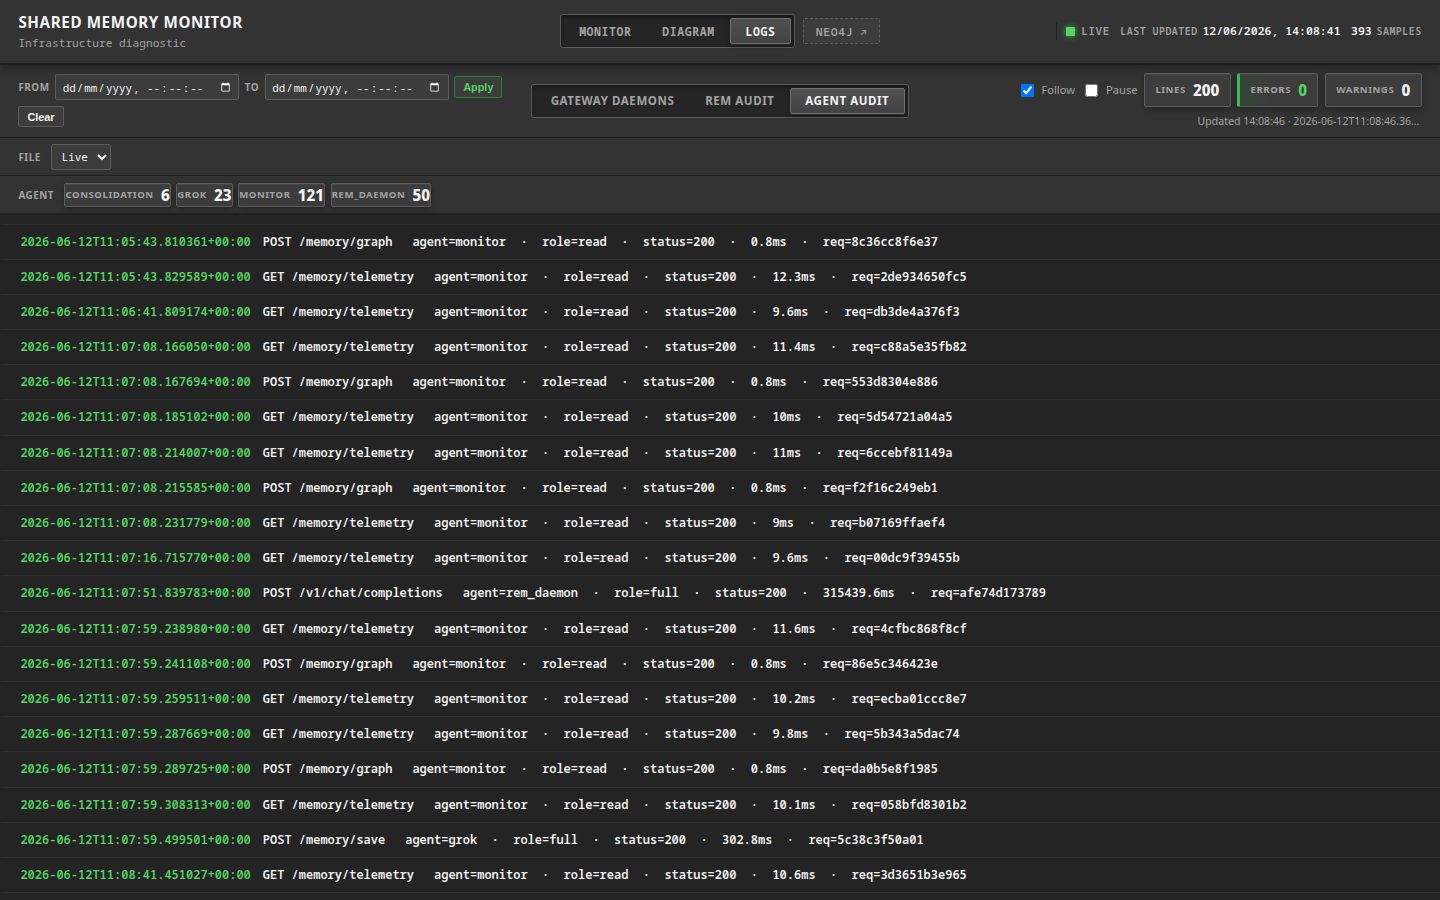
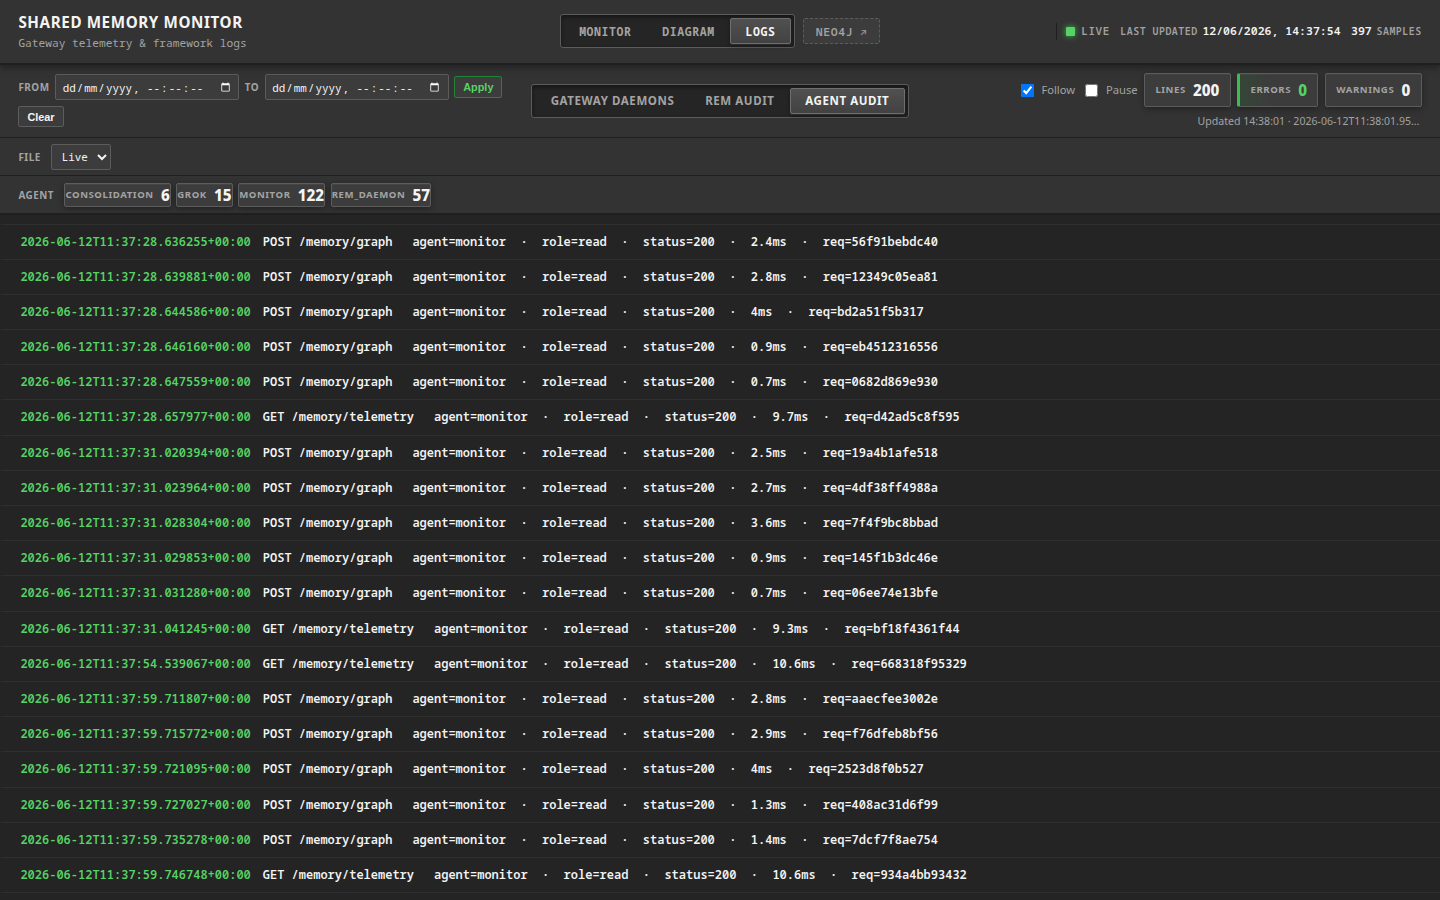
docs: add schema breakdown screenshot to README (v0.4.2)
Capture opens the schema drawer after breakdown loads; README Screenshots
section documents Neo4j graph + telemetry.breakdown panels.

diff --git a/static/dashboard.html b/static/dashboard.html
@@ -4,7 +4,7 @@
 <meta charset="utf-8">
 <title>Shared Memory Monitor</title>
 <script src="https://cdn.jsdelivr.net/npm/chart.js@4.4.1/dist/chart.umd.min.js"></script>
-<link rel="stylesheet" href="/static/theme.css?v=13">
+<link rel="stylesheet" href="/static/theme.css?v=30">
 </head>
 <body data-bar-meta="dashboard">
 
@@ -487,6 +487,7 @@ async function loadBreakdown({ force = true, waitPaint = false } = {}) {
     if (loading) loading.hidden = true;
     if (content) content.hidden = false;
     resizeBreakdownCharts();
+    markSchemaCaptureReady();
   } catch (err) {
     if (err.name === "AbortError") return;
     if (gen !== schemaDrawerGen) return;
@@ -498,6 +499,7 @@ async function loadBreakdown({ force = true, waitPaint = false } = {}) {
       const msg = err.message || "Could not reach /api/breakdown";
       box.innerHTML = `<div class="schema-error"><strong>Monitor</strong><span>${esc(msg)}</span></div>`;
     }
+    markSchemaCaptureReady();
   } finally {
     if (refreshBtn) refreshBtn.disabled = false;
   }
@@ -666,6 +668,14 @@ async function loadSummary() {
   } catch (_) {}
 }
 
+function markSchemaCaptureReady() {
+  const params = new URLSearchParams(location.search);
+  if (!params.has("capture") || !params.has("schema")) return;
+  requestAnimationFrame(() => requestAnimationFrame(() => {
+    document.body.dataset.schemaReady = "1";
+  }));
+}
+
 fetch("/api/meta").then(r=>r.json()).then(m=>{
   if (m.neo4j_browser_url) document.getElementById("neo4j-link").href = m.neo4j_browser_url;
 }).catch(()=>{});
@@ -675,6 +685,19 @@ refresh();
 setInterval(loadSummary, 30000);
 setInterval(loadSystemHealth, 30000);
 setInterval(refresh, 60000);
+
+(async function bootSchemaCapture() {
+  const params = new URLSearchParams(location.search);
+  if (!params.has("capture") || !params.has("schema")) return;
+  document.body.dataset.schemaCapture = "1";
+  try {
+    await refresh();
+    await loadSystemHealth();
+    openSchemaDrawer();
+  } catch (_) {
+    markSchemaCaptureReady();
+  }
+})();
 </script>
 </body>
 </html>

diff --git a/static/theme.css b/static/theme.css
@@ -610,6 +610,24 @@ body.schema-open { overflow: hidden; }
   overflow-y: auto;
   padding: 1rem 1.15rem 1.5rem;
 }
+/* README capture — expand drawer so full-page screenshot includes all panels */
+body[data-schema-capture="1"] {
+  overflow: visible !important;
+}
+body[data-schema-capture="1"] .schema-backdrop.open {
+  position: absolute;
+  inset: 0;
+  min-height: 100%;
+}
+body[data-schema-capture="1"] .schema-drawer.open {
+  position: relative;
+  transform: none;
+  height: auto;
+  min-height: 100vh;
+}
+body[data-schema-capture="1"] .schema-drawer-body {
+  overflow: visible;
+}
 .schema-loading {
   color: var(--muted);
   font-size: .85rem;

diff --git a/scripts/capture_screenshots.py b/scripts/capture_screenshots.py
@@ -16,6 +16,7 @@ BASE = os.environ.get("SM_SCREENSHOT_URL", "http://127.0.0.1:8765").rstrip("/")
 
 PAGES: list[tuple[str, str, dict[str, int]]] = [
     ("dashboard.png", "/", {"width": 1440, "height": 900}),
+    ("schema-breakdown.png", "/?schema=1&capture=1", {"width": 1440, "height": 900}),
     ("diagram.png", "/diagram?capture=1", {"width": 1280, "height": 900}),
     ("logs.png", "/logs?source=agent_audit&capture=1", {"width": 1440, "height": 900}),
 ]
@@ -48,6 +49,11 @@ def main() -> None:
                 page.wait_for_selector("body[data-logs-ready='1']", timeout=60_000)
                 page.wait_for_selector("#tabs .view-tab.is-active[data-id='agent_audit']", timeout=60_000)
                 page.wait_for_selector(".log-agent-audit", timeout=60_000)
+            if "schema=1" in path:
+                page.wait_for_selector("body[data-schema-ready='1']", timeout=60_000)
+                page.wait_for_selector("#schema-content:not([hidden])", timeout=60_000)
+                page.wait_for_selector("#schema-drawer.open", timeout=60_000)
+                page.wait_for_timeout(600)
             target = OUT / name
             page.screenshot(path=str(target), full_page=True)
             print(f"wrote {target}")

diff --git a/src/sm_telemetry_monitor/__init__.py b/src/sm_telemetry_monitor/__init__.py
@@ -1,3 +1,3 @@
 """Read-only view over gateway telemetry and framework logs — no separate data interfaces."""
 
-__version__ = "0.4.1"
+__version__ = "0.4.2"

diff --git a/README.md b/README.md
@@ -45,6 +45,12 @@ All metrics are gateway telemetry fields (cached polls + live `GET /health` for 
 
 ![Monitor — backlog charts, pipeline queues, infrastructure health](docs/images/dashboard.png)
 
+### Schema breakdown (drawer on `/`)
+
+Neo4j graph panels from `POST /memory/graph`; Postgres inventory from `telemetry.breakdown` on `GET /memory/telemetry`. Open via **Schema breakdown** in the sidebar — no separate schema API.
+
+![Schema breakdown — Neo4j labels, graph paths, telemetry record types and domains](docs/images/schema-breakdown.png)
+
 ### Diagram (`/diagram`)
 
 Live **framework** layout (not the monitor process diagram below). Gateway-owned I/O: agents → coordinator; REM/NREM daemons ↔ gateway only; memory and inference hops via gateway buses. Node counts from telemetry; health badges from `GET /health`; flow lines from telemetry interval deltas + the same agent-audit JSONL as `/logs`. No diagram-specific data API.
@@ -252,7 +258,7 @@ Controls: **Follow** / **Pause**, since/until filters, **File** picker (live + `
 | **Bottleneck** | Telemetry backlog fields (display math only) |
 | **Pipeline queues** | Telemetry postgres/neo4j/outbox fields |
 | **Infrastructure** | `GET /health` component blocks |
-| **Schema breakdown** drawer | `telemetry.breakdown` + `POST /memory/graph` |
+| **Schema breakdown** drawer | `telemetry.breakdown` + `POST /memory/graph` — see screenshot above |
 
 Main charts: backlog over time, throughput, cumulative cleared, tier-3 growth & errors, raw samples table.
 

diff --git a/CHANGELOG.md b/CHANGELOG.md
@@ -6,6 +6,13 @@ Format based on [Keep a Changelog](https://keepachangelog.com/en/1.1.0/).
 
 ## [Unreleased]
 
+## [0.4.2] - 2026-06-12
+
+### Added
+
+- **README schema breakdown screenshot** — `docs/images/schema-breakdown.png`;
+  capture opens the schema drawer (`/?schema=1&capture=1`) after breakdown data loads
+
 ## [0.4.1] - 2026-06-12
 
 ### Changed